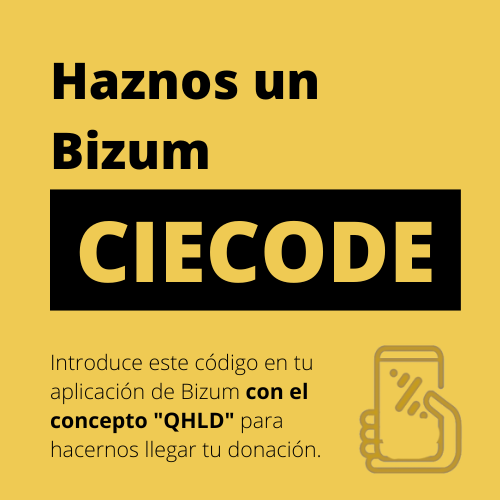
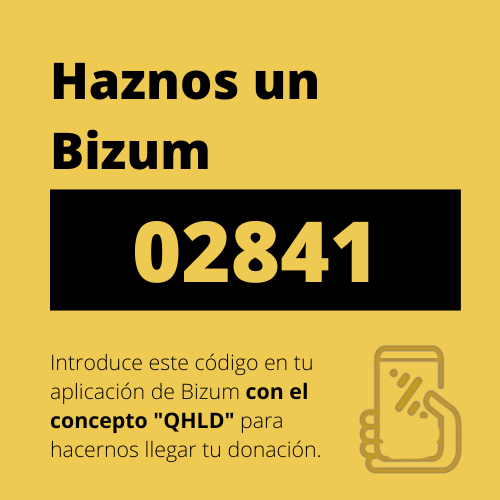
Changes Bizum code

Changed region(s): [[0.15, 0.42, 0.87, 0.57]]

diff --git a/src/views/Collaborate.vue b/src/views/Collaborate.vue
@@ -28,7 +28,7 @@
           <p></p>
 
           <h2 id="dona">Dona y contribuye con el mantenimiento de la herramienta</h2>
-          <p>Qué Hacen Los Diputados se mantiene exclusivamente con fondos propios de <a href="https://politicalwatch.es" target="_blank">Political Watch</a> (el think-and-do tank de la Fundación Salvador Soler). Vigilar la actividad del Congreso de los Diputados no es una tarea fácil (350 diputados y diputadas, una treintena de Comisiones, más de 25.000 iniciativas parlamentarias al año…) y el mantenimiento del proyecto implica unos considerables recursos económicos y humanos. Gracias a pequeñas aportaciones de nuestra comunidad de personas usuarias podremos seguir ofreciendo y mejorando la herramienta. Entendemos el seguimiento parlamentario como un servicio público. ¿Nos ayudas a mantenerlo? Haznos un Bizum al código CIECODE con el concepto QHLD o Qué Hacen Los Diputados.</p>
+          <p>Qué Hacen Los Diputados se mantiene exclusivamente con fondos propios de <a href="https://politicalwatch.es" target="_blank">Political Watch</a> (el think-and-do tank de la Fundación Salvador Soler). Vigilar la actividad del Congreso de los Diputados no es una tarea fácil (350 diputados y diputadas, una treintena de Comisiones, más de 25.000 iniciativas parlamentarias al año…) y el mantenimiento del proyecto implica unos considerables recursos económicos y humanos. Gracias a pequeñas aportaciones de nuestra comunidad de personas usuarias podremos seguir ofreciendo y mejorando la herramienta. Entendemos el seguimiento parlamentario como un servicio público. ¿Nos ayudas a mantenerlo? <b>Haznos un Bizum al código 02841 con el concepto QHLD o Qué Hacen Los Diputados</b>.</p>
           <img src="/img/haznosunbizum.png" width="400px" height="400px" alt="En esta imagen aparece el código CIECODE para que nos podáis hacer un Bizum">
         </div>
       </div>
